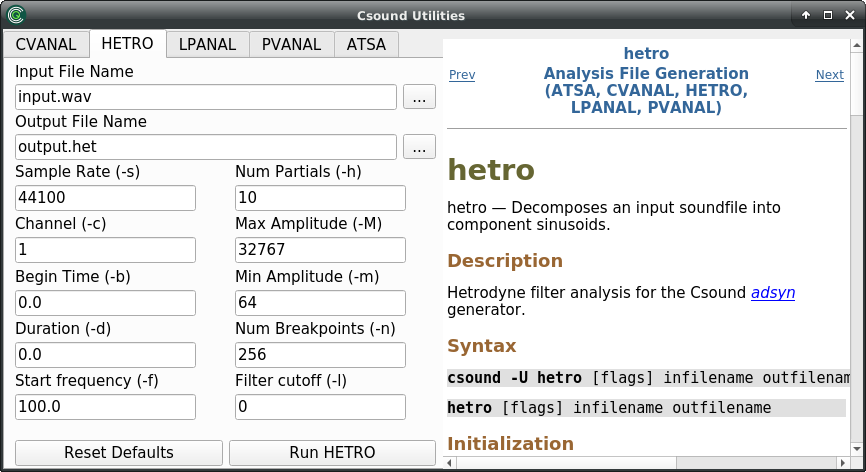
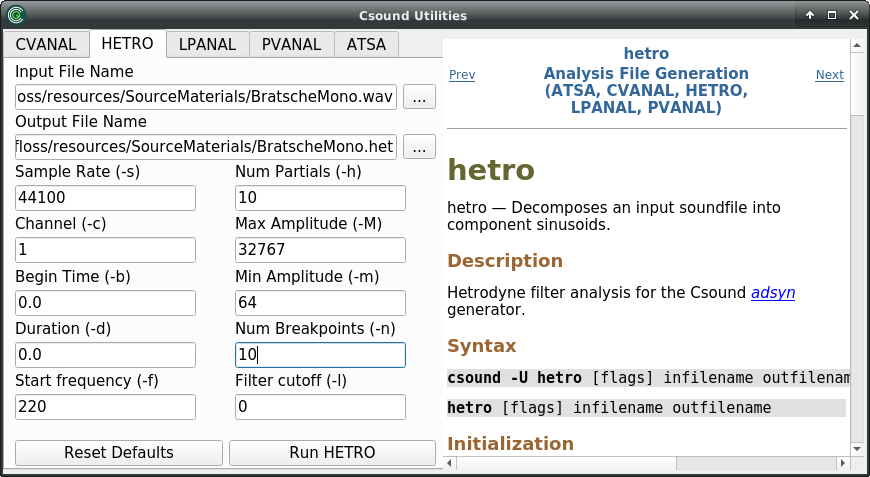
hetro description finished

diff --git a/book/11-a-analysis.md b/book/11-a-analysis.md
@@ -69,21 +69,77 @@ The *cvanal* utility analyses an impulse response for usage in the old [concolve
 
 ### hetro
 
-The hetrodyne filter analysis can be understood as simplified and adjustable Fourier Transform. Although this utility is originally designed for the usage in the [adsyn](https://csound.com/docs/manual/adsyn.html) opcode, it can be used to get data from any harmonic sound for additive synthesis. 
+The hetrodyne filter analysis can be understood as one way of applying the Fourier Transform.[^1] Its attempt is to reconstruct a number of partial tracks in a time-breakpoint manner. The breakpoints are measured in milliseconds. 
+Although this utility is originally designed for the usage in the [adsyn](https://csound.com/docs/manual/adsyn.html) opcode, it can be used to get data from any harmonic sound for additive synthesis. 
 
-The usage of *hetro* follows the utility standard:
+[^1]: Cf. Curtis Roads, The Computer Music Tutorial, Cambridge MA: MIT Press 1996, 548-549;
+James Beauchamp, Analysis, Synthesis and Perception of Musical Sounds, New York:Springer 2007, 5-12
+
+The usage of *hetro* follows the general utility standard:
 
     hetro [flags] infilename outfilename
 
 But the adjustment of some *flags* is crucial here depending on the desired usage of the analysis:
 
-- **-f** *begfreq*: This is the estimated frequency of the fundamental. The default is 100 Hz, but it should be adjusted as good as possible to the real fundamental frequency as good as possible.  
+- **-f** *begfreq*: This is the estimated frequency of the fundamental. The default is 100 Hz, but it should be adjusted as good as possible to the real fundamental frequency of the input sound.  
 - **-h** *partials*: This is the number of partials the utility will analyze and write in the output file. The default number of 10 is quite low and will usually result in a dull sound in the resynthesis.  
 - **-n** *brkpts*: This is the number of breakpoints for the analysis. These breakpoints are initially evenly spread over the duration, and then reduced and adjusted by the algorithm. The default number of 256 is reasonable for most usage, but can be massively reduced for some sounds and usages.  
-- **-m** *minamp*: The *hetro* utility uses the old Csound amplitude convention where 0 dB is set to 32767. This has to be considered here, where a minimal amplitude is set below which a partial is considered dormant. So the default 64 means -54 dB; other common values are 128 (-48 dB), 32 (-60 dB) or 0 (no thresholding).
+- **-m** *minamp*: The *hetro* utility uses the old Csound amplitude convention where 0 dB is set to 32767. This has to be considered in this option, in which a minimal amplitude is set. Below this amplitude a partial is considered dormant. So the default 64 corresponds to -54 dB; other common values are 128 (-48 dB), 32 (-60 dB) or 0 (no thresholding).
  
+As an example, we start the utility with these parameters:
 
 ![HETRO Utility in CsoundQt](../resources/images/11-a-hetro.png)
+
+This is the output of the analysis in the Csound console:
+
+~~~
+util hetro:
+audio sr = 44100, monaural
+opening WAV infile resources/SourceMaterials/BratscheMono.wav
+analysing 359837 sample frames (8.2 secs)
+analyzing harmonic #0
+freq estimate  220.0, max found  220.0, rel amp 1039228.8
+analyzing harmonic #1
+freq estimate  440.0, max found  443.5, rel amp 358754.9
+analyzing harmonic #2
+freq estimate  660.0, max found  660.0, rel amp 329786.0
+analyzing harmonic #3
+freq estimate  880.0, max found  880.0, rel amp 253682.2
+analyzing harmonic #4
+freq estimate 1100.0, max found 1147.5, rel amp 188708.2
+analyzing harmonic #5
+freq estimate 1320.0, max found 1320.0, rel amp 51153.9
+analyzing harmonic #6
+freq estimate 1540.0, max found 1564.8, rel amp 52575.5
+analyzing harmonic #7
+freq estimate 1760.0, max found 1760.0, rel amp 149709.0
+analyzing harmonic #8
+freq estimate 1980.0, max found 1980.0, rel amp 162766.8
+analyzing harmonic #9
+freq estimate 2200.0, max found 2200.0, rel amp 71892.1
+scale = 0.013184
+harmonic #0:	amp points 10, 	frq points 10,	peakamp 13701
+harmonic #1:	amp points 10, 	frq points 10,	peakamp 4730
+harmonic #2:	amp points 10, 	frq points 10,	peakamp 4348
+harmonic #3:	amp points 10, 	frq points 10,	peakamp 3344
+harmonic #4:	amp points 9, 	frq points 9,	peakamp 2488
+harmonic #5:	amp points 10, 	frq points 10,	peakamp 674
+harmonic #6:	amp points 9, 	frq points 9,	peakamp 693
+harmonic #7:	amp points 10, 	frq points 10,	peakamp 1974
+harmonic #8:	amp points 9, 	frq points 9,	peakamp 2146
+harmonic #9:	amp points 9, 	frq points 9,	peakamp 948
+wrote 848 bytes to resources/SourceMaterials/BratscheMono.het
+~~~
+
+The file *BratscheMono.het* starts with `HETRO 10` as first line, showing that 10 partial track data will follow. The amplitude data lines begin with -1, the frequency data lines begin with -2.  This is start and end of the first two lines, slightly formatted to show the breakpoints:
+
+~~~
+-1, 0,0,   815,3409, 1631,11614, 2447,12857, ... , 7343,0,   32767
+-2, 0,220, 815,217,  1631,218,   2447,219, ...   , 7343,217, 32767
+~~~
+
+After the starting -1 or -2, the time-value pairs are written. Here we have at 0 ms an amplitude of 0 and a frequency of 220. At 815 ms we have amplitude of 3409 and frequency of 217. At 7343 ms, near the end of this file, we have amplitude of 0 and frequency of 217, followed in both cases by 32767 (as additional line ending signifier).
+
 
 ### lpanal
 
